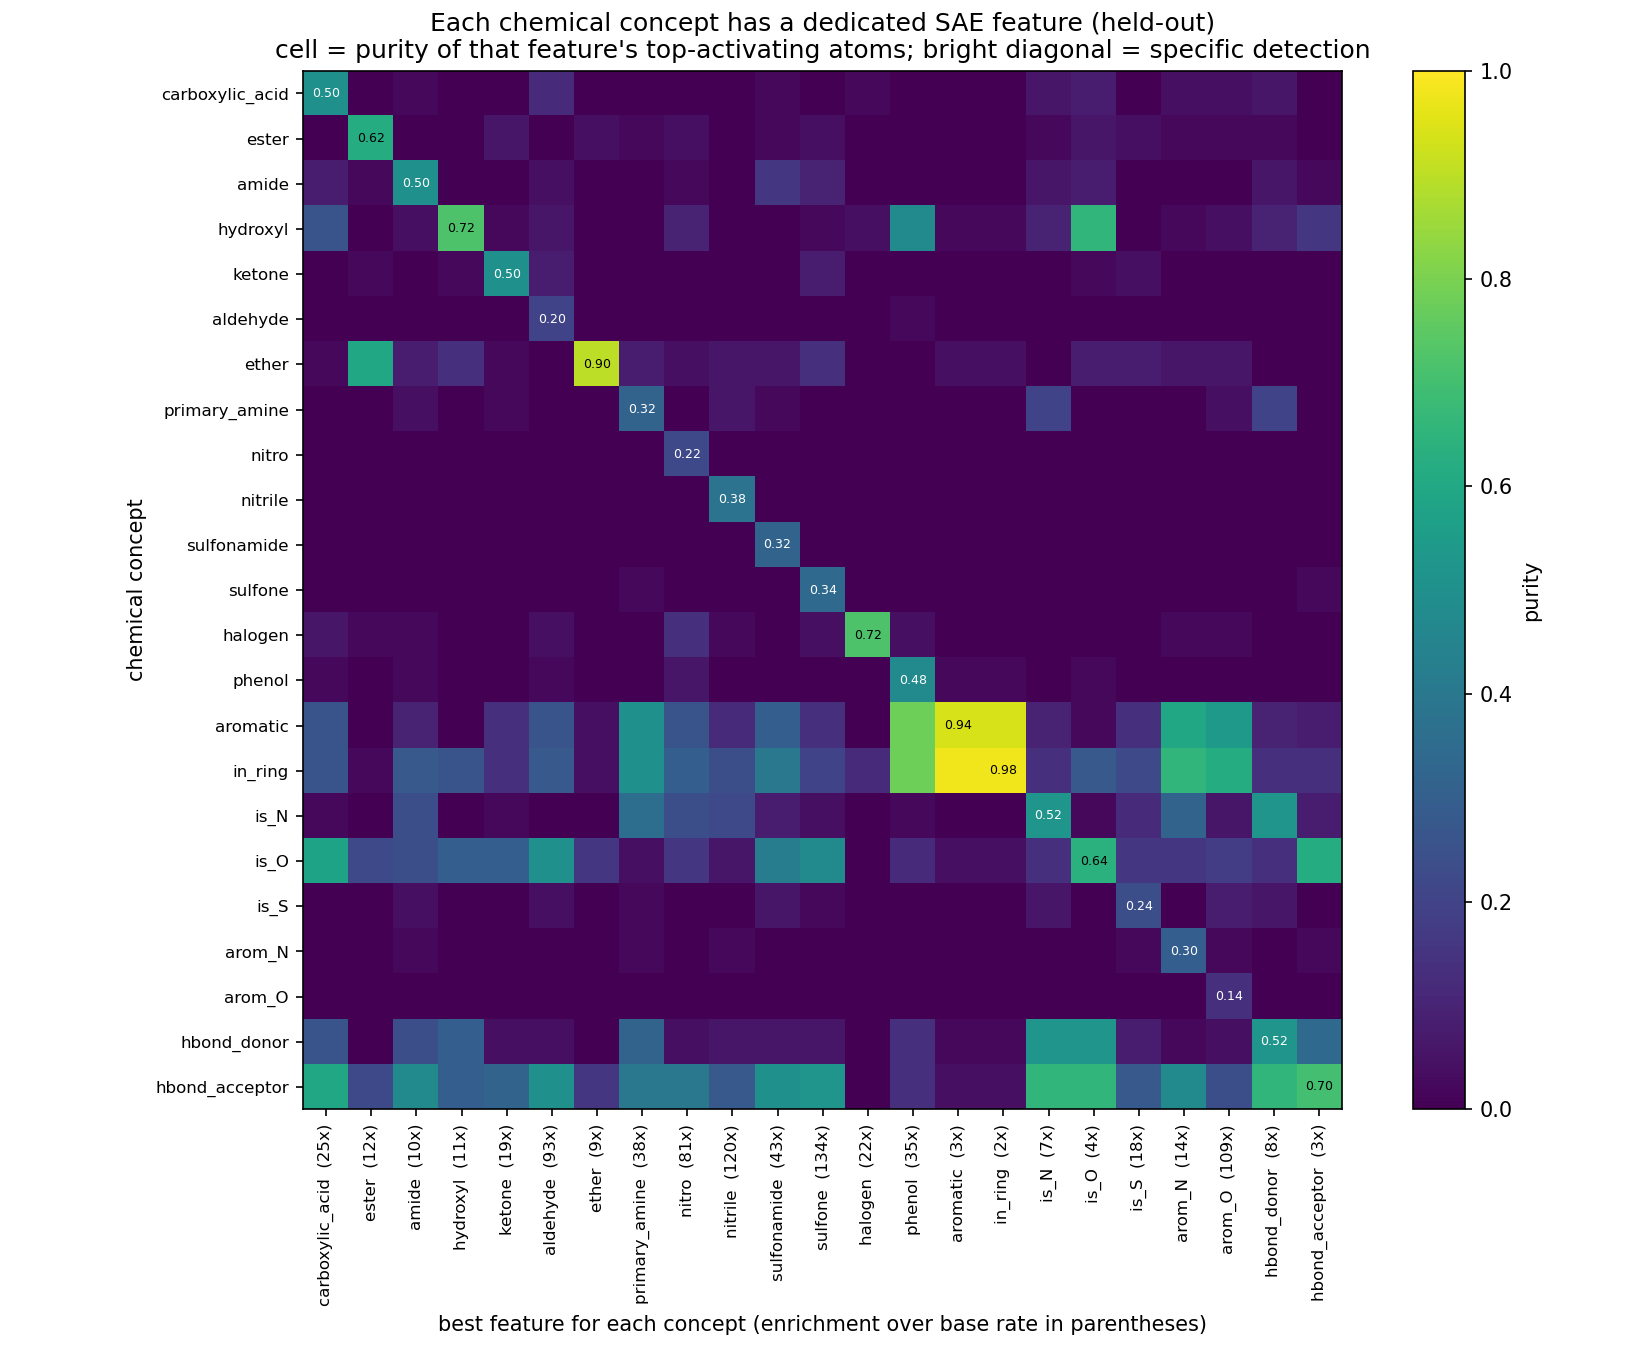
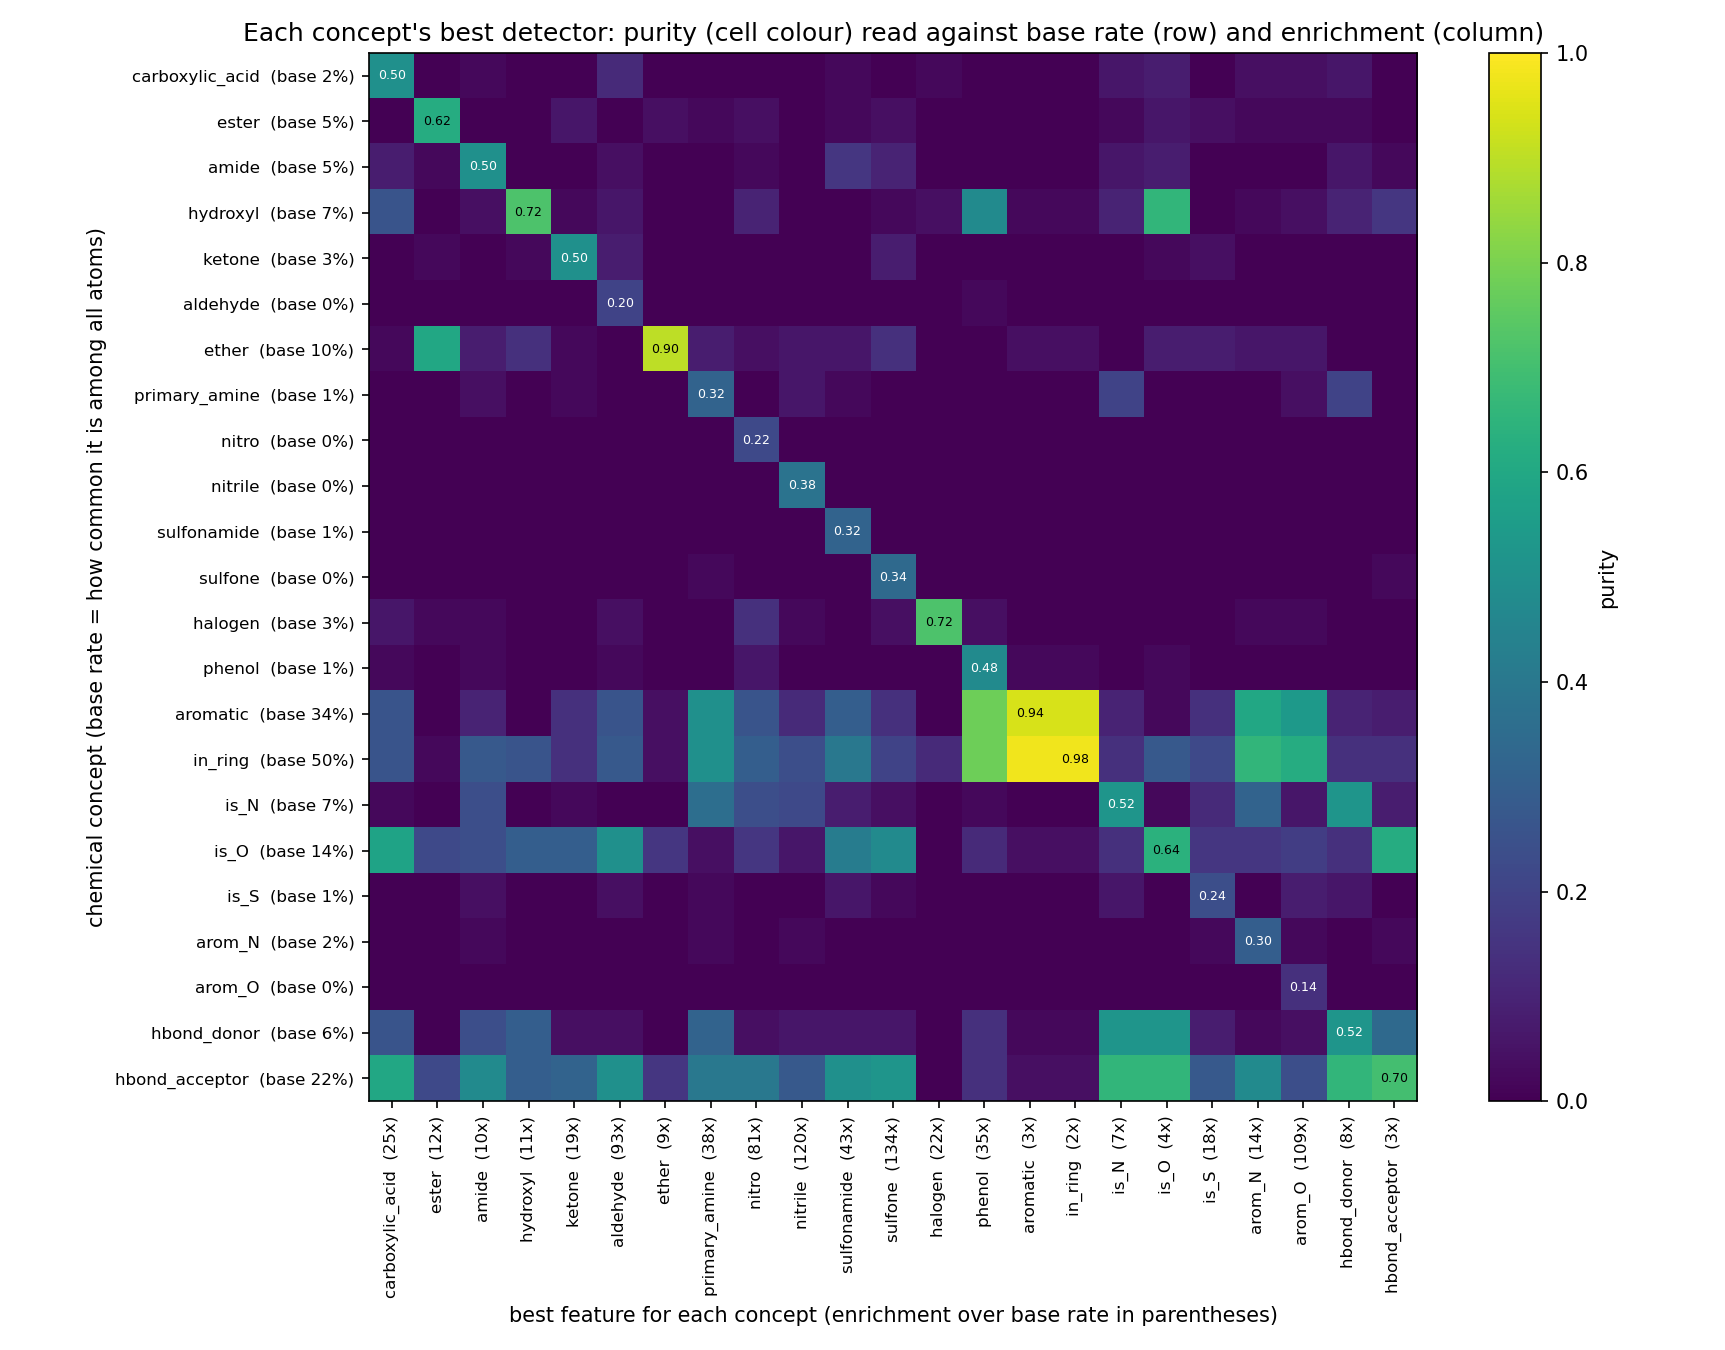
Improve figures per review: green/red purity (fig1), base rates (fig2), precision+recall (fig3)

diff --git a/README.md b/README.md
@@ -40,18 +40,20 @@ graph-based drug-repurposing models.
 
 ## Figures (`figures/`)
 
-- `fig1_top_molecules.png` — top molecules for representative features, with the atoms that
-  activate each feature highlighted (e.g., the ether feature lights up on ether oxygens).
-- `fig2_feature_concept_heatmap.png` — **the best SAE feature for each chemical concept.**
-  Both axes are concepts; each column is that concept's best detector, and cell color is
-  purity. The **bright diagonal** shows every concept has its own dedicated feature; x-axis
-  labels give each detector's enrichment over base rate (e.g. ether 0.90 purity / 9x,
-  halogen 0.72 / 22x, nitrile 0.38 / 120x). Common concepts (ring, aromatic) have high
-  purity but low enrichment; rare functional groups have lower purity but very high
-  enrichment. Off-diagonal cells show chemically sensible overlap (e.g. the is_O row lights
-  up for all oxygen-containing groups).
-- `fig3_interpretability_summary.png` — how many features are interpretable (purity tiers),
-  and the best detector per functional group by enrichment.
+- `fig1_top_molecules.png` — representative features with each activating atom colored by
+  ground truth: **green if it truly is the concept (correct), red if not.** Purity becomes
+  visible — the ether feature (0.90) is almost all green, the ketone feature (0.50) is about
+  half red.
+- `fig2_feature_concept_heatmap.png` — **the best SAE feature for each chemical concept,**
+  with each concept's **base rate on its row label**. Both axes are concepts; cell color is
+  purity; the bright diagonal shows every concept has a dedicated feature. The base rate is
+  what makes purity meaningful: in-ring 0.98 purity looks impressive until you see rings are
+  ~50% of atoms (2x), whereas ether 0.90 against a 10% base is genuinely strong (9x).
+- `fig3_interpretability_summary.png` — **precision and recall shown directly**, because any
+  single number is confounded by base rate here (purity favors common concepts; enrichment
+  and single-feature F1 favor rare ones). Left: every feature is precise but low-recall (each
+  concept is split across many features). Right: the cleanest detector per functional group
+  ranked by precision (halogen/ether/hydroxyl highest), with recall and F1 shown alongside.
 
 ## Run it
 